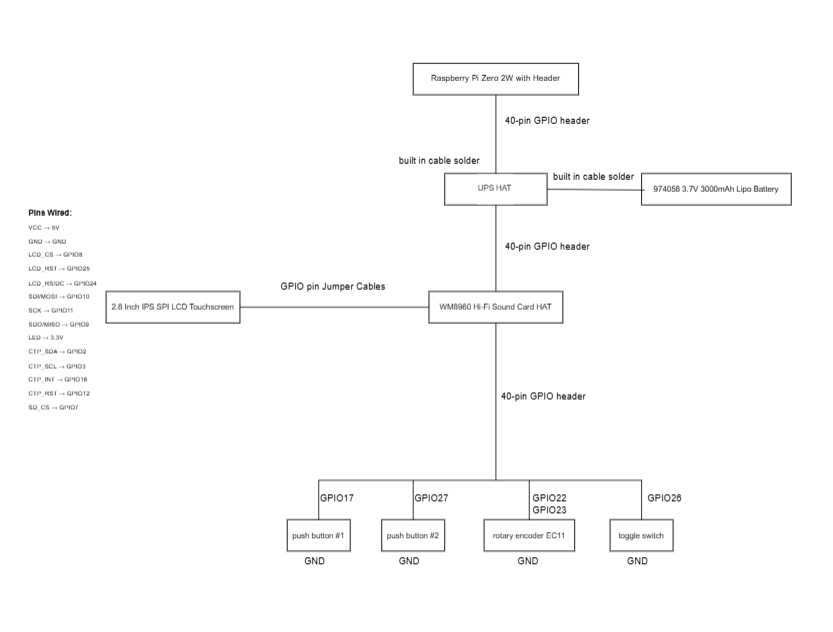
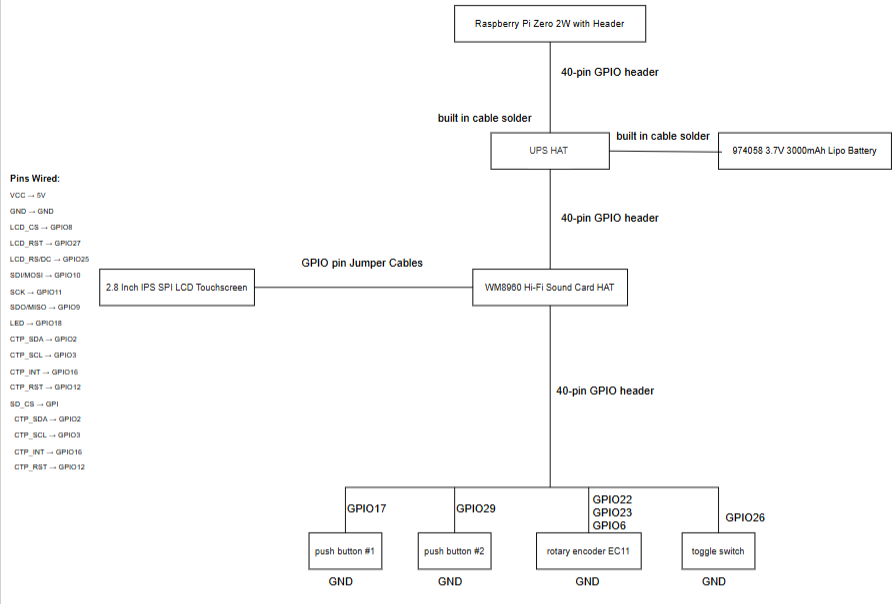
replaced pic

Changed region(s): [[0.0, 0.0, 0.9988, 0.9834]]

diff --git a/Source files/Hybrid Wiring Schematic.drawio.html b/Source files/Hybrid Wiring Schematic.drawio.html
@@ -1,0 +1,12 @@
+<!--[if IE]><meta http-equiv="X-UA-Compatible" content="IE=5,IE=9" ><![endif]-->
+<!DOCTYPE html>
+<html>
+<head>
+<title>Hybrid Wiring Schematic.drawio.html</title>
+<meta charset="utf-8"/>
+</head>
+<body>
+<div class="mxgraph" style="max-width:100%;border:1px solid transparent;" data-mxgraph="{&quot;highlight&quot;:&quot;#0000ff&quot;,&quot;nav&quot;:true,&quot;resize&quot;:true,&quot;xml&quot;:&quot;&lt;mxfile host=\&quot;app.diagrams.net\&quot;&gt;&lt;diagram name=\&quot;Page-1\&quot; id=\&quot;cuox75xA8GwFOKZldtt4\&quot;&gt;&lt;mxGraphModel dx=\&quot;1431\&quot; dy=\&quot;1856\&quot; grid=\&quot;1\&quot; gridSize=\&quot;10\&quot; guides=\&quot;1\&quot; tooltips=\&quot;1\&quot; connect=\&quot;1\&quot; arrows=\&quot;1\&quot; fold=\&quot;1\&quot; page=\&quot;1\&quot; pageScale=\&quot;1\&quot; pageWidth=\&quot;700\&quot; pageHeight=\&quot;1000\&quot; math=\&quot;0\&quot; shadow=\&quot;0\&quot;&gt;&lt;root&gt;&lt;mxCell id=\&quot;0\&quot;/&gt;&lt;mxCell id=\&quot;1\&quot; parent=\&quot;0\&quot;/&gt;&lt;mxCell id=\&quot;HXjn62AXbr9AhXD-XgPh-1\&quot; parent=\&quot;1\&quot; style=\&quot;rounded=0;whiteSpace=wrap;html=1;fontSize=5;\&quot; value=\&quot;&amp;lt;h1 class=&amp;quot;products_name&amp;quot; style=&amp;quot;box-sizing: border-box; margin: 0px; font-weight: 400; line-height: 30px; color: rgb(0, 0, 0); padding: 0px; font-variant: normal; letter-spacing: 0.28px; text-align: start; background-color: rgb(255, 255, 255);&amp;quot;&amp;gt;&amp;lt;font face=&amp;quot;Helvetica&amp;quot;&amp;gt;Raspberry Pi Zero 2W with Header&amp;lt;/font&amp;gt;&amp;lt;/h1&amp;gt;\&quot; vertex=\&quot;1\&quot;&gt;&lt;mxGeometry height=\&quot;40\&quot; width=\&quot;210\&quot; x=\&quot;610\&quot; y=\&quot;100\&quot; as=\&quot;geometry\&quot;/&gt;&lt;/mxCell&gt;&lt;mxCell id=\&quot;HXjn62AXbr9AhXD-XgPh-2\&quot; parent=\&quot;1\&quot; style=\&quot;rounded=0;whiteSpace=wrap;html=1;fontSize=5;\&quot; value=\&quot;&amp;lt;h1 class=&amp;quot;product-name&amp;quot; style=&amp;quot;background-repeat: no-repeat; box-sizing: border-box; padding: 0px; margin: 0px; font-weight: 500; line-height: 38px; color: rgb(51, 51, 51); text-align: start; background-color: rgb(255, 255, 255);&amp;quot;&amp;gt;&amp;lt;font face=&amp;quot;Helvetica&amp;quot;&amp;gt;UPS HAT&amp;amp;nbsp;&amp;lt;/font&amp;gt;&amp;lt;/h1&amp;gt;\&quot; vertex=\&quot;1\&quot;&gt;&lt;mxGeometry height=\&quot;40\&quot; width=\&quot;130\&quot; x=\&quot;650\&quot; y=\&quot;240\&quot; as=\&quot;geometry\&quot;/&gt;&lt;/mxCell&gt;&lt;mxCell id=\&quot;HXjn62AXbr9AhXD-XgPh-4\&quot; parent=\&quot;1\&quot; style=\&quot;rounded=0;whiteSpace=wrap;html=1;fontSize=5;fontFamily=Helvetica;\&quot; value=\&quot;&amp;lt;h1 style=&amp;quot;box-sizing: border-box; margin: 0px; padding: 0px; font-weight: normal; line-height: 1.2em; color: rgb(24, 24, 26); text-align: start; background-color: rgb(255, 255, 255);&amp;quot;&amp;gt;&amp;lt;font&amp;gt;WM8960 Hi-Fi Sound Card HAT&amp;lt;/font&amp;gt;&amp;lt;/h1&amp;gt;\&quot; vertex=\&quot;1\&quot;&gt;&lt;mxGeometry height=\&quot;40\&quot; width=\&quot;170\&quot; x=\&quot;630\&quot; y=\&quot;390\&quot; as=\&quot;geometry\&quot;/&gt;&lt;/mxCell&gt;&lt;mxCell id=\&quot;HXjn62AXbr9AhXD-XgPh-5\&quot; parent=\&quot;1\&quot; style=\&quot;rounded=0;whiteSpace=wrap;html=1;fontSize=10;\&quot; value=\&quot;&amp;lt;font&amp;gt;&amp;lt;span style=&amp;quot;color: rgb(0, 0, 0); font-style: normal; font-variant-ligatures: normal; font-variant-caps: normal; letter-spacing: normal; orphans: 2; text-align: start; text-indent: 0px; text-transform: none; widows: 2; word-spacing: 0px; -webkit-text-stroke-width: 0px; white-space: normal; text-decoration-thickness: initial; text-decoration-style: initial; text-decoration-color: initial; float: none; display: inline !important;&amp;quot;&amp;gt;&amp;lt;font face=&amp;quot;Helvetica&amp;quot;&amp;gt;974058 3.7V 3000mAh Lipo Battery&amp;lt;/font&amp;gt;&amp;lt;/span&amp;gt;&amp;lt;br&amp;gt;&amp;lt;/font&amp;gt;\&quot; vertex=\&quot;1\&quot;&gt;&lt;mxGeometry height=\&quot;40\&quot; width=\&quot;190\&quot; x=\&quot;900\&quot; y=\&quot;240\&quot; as=\&quot;geometry\&quot;/&gt;&lt;/mxCell&gt;&lt;mxCell id=\&quot;HXjn62AXbr9AhXD-XgPh-6\&quot; parent=\&quot;1\&quot; style=\&quot;rounded=0;whiteSpace=wrap;html=1;fontSize=5;fontFamily=Helvetica;\&quot; value=\&quot;&amp;lt;h1 style=&amp;quot;box-sizing: border-box; margin: 0px; padding: 0px; font-weight: normal; line-height: 1.2em; color: rgb(24, 24, 26); text-align: start; background-color: rgb(255, 255, 255);&amp;quot;&amp;gt;&amp;lt;font&amp;gt;push button #1&amp;lt;/font&amp;gt;&amp;lt;/h1&amp;gt;\&quot; vertex=\&quot;1\&quot;&gt;&lt;mxGeometry height=\&quot;40\&quot; width=\&quot;80\&quot; x=\&quot;450\&quot; y=\&quot;680\&quot; as=\&quot;geometry\&quot;/&gt;&lt;/mxCell&gt;&lt;mxCell id=\&quot;HXjn62AXbr9AhXD-XgPh-8\&quot; parent=\&quot;1\&quot; style=\&quot;rounded=0;whiteSpace=wrap;html=1;fontSize=5;fontFamily=Helvetica;\&quot; value=\&quot;&amp;lt;h1 style=&amp;quot;box-sizing: border-box; margin: 0px; padding: 0px; font-weight: normal; line-height: 1.2em; color: rgb(24, 24, 26); text-align: start; background-color: rgb(255, 255, 255);&amp;quot;&amp;gt;&amp;lt;font&amp;gt;rotary encoder EC11&amp;lt;/font&amp;gt;&amp;lt;/h1&amp;gt;\&quot; vertex=\&quot;1\&quot;&gt;&lt;mxGeometry height=\&quot;40\&quot; width=\&quot;115\&quot; x=\&quot;700\&quot; y=\&quot;680\&quot; as=\&quot;geometry\&quot;/&gt;&lt;/mxCell&gt;&lt;mxCell id=\&quot;HXjn62AXbr9AhXD-XgPh-9\&quot; parent=\&quot;1\&quot; style=\&quot;rounded=0;whiteSpace=wrap;html=1;fontSize=5;fontFamily=Helvetica;\&quot; value=\&quot;&amp;lt;h1 style=&amp;quot;box-sizing: border-box; margin: 0px; padding: 0px; font-weight: normal; line-height: 1.2em; color: rgb(24, 24, 26); text-align: start; background-color: rgb(255, 255, 255);&amp;quot;&amp;gt;toggle switch&amp;lt;/h1&amp;gt;\&quot; vertex=\&quot;1\&quot;&gt;&lt;mxGeometry height=\&quot;40\&quot; width=\&quot;80\&quot; x=\&quot;860\&quot; y=\&quot;680\&quot; as=\&quot;geometry\&quot;/&gt;&lt;/mxCell&gt;&lt;mxCell id=\&quot;HXjn62AXbr9AhXD-XgPh-10\&quot; parent=\&quot;1\&quot; style=\&quot;rounded=0;whiteSpace=wrap;html=1;fontSize=5;fontFamily=Helvetica;\&quot; value=\&quot;&amp;lt;h1 style=&amp;quot;box-sizing: border-box; margin: 0px; padding: 0px; font-weight: normal; line-height: 1.2em; color: rgb(24, 24, 26); text-align: start; background-color: rgb(255, 255, 255);&amp;quot;&amp;gt;&amp;lt;font&amp;gt;2.8 Inch IPS SPI LCD Touchscreen&amp;lt;/font&amp;gt;&amp;lt;/h1&amp;gt;\&quot; vertex=\&quot;1\&quot;&gt;&lt;mxGeometry height=\&quot;40\&quot; width=\&quot;170\&quot; x=\&quot;220\&quot; y=\&quot;390\&quot; as=\&quot;geometry\&quot;/&gt;&lt;/mxCell&gt;&lt;mxCell id=\&quot;HXjn62AXbr9AhXD-XgPh-11\&quot; edge=\&quot;1\&quot; parent=\&quot;1\&quot; source=\&quot;HXjn62AXbr9AhXD-XgPh-2\&quot; style=\&quot;endArrow=none;html=1;rounded=0;entryX=0.5;entryY=1;entryDx=0;entryDy=0;exitX=0.5;exitY=0;exitDx=0;exitDy=0;\&quot; target=\&quot;HXjn62AXbr9AhXD-XgPh-1\&quot; value=\&quot;\&quot;&gt;&lt;mxGeometry height=\&quot;50\&quot; relative=\&quot;1\&quot; width=\&quot;50\&quot; as=\&quot;geometry\&quot;&gt;&lt;mxPoint x=\&quot;710\&quot; y=\&quot;370\&quot; as=\&quot;sourcePoint\&quot;/&gt;&lt;mxPoint x=\&quot;760\&quot; y=\&quot;320\&quot; as=\&quot;targetPoint\&quot;/&gt;&lt;/mxGeometry&gt;&lt;/mxCell&gt;&lt;mxCell id=\&quot;HXjn62AXbr9AhXD-XgPh-12\&quot; parent=\&quot;1\&quot; style=\&quot;text;whiteSpace=wrap;html=1;\&quot; value=\&quot;40-pin GPIO header\&quot; vertex=\&quot;1\&quot;&gt;&lt;mxGeometry height=\&quot;40\&quot; width=\&quot;140\&quot; x=\&quot;725\&quot; y=\&quot;160\&quot; as=\&quot;geometry\&quot;/&gt;&lt;/mxCell&gt;&lt;mxCell id=\&quot;HXjn62AXbr9AhXD-XgPh-13\&quot; edge=\&quot;1\&quot; parent=\&quot;1\&quot; source=\&quot;HXjn62AXbr9AhXD-XgPh-4\&quot; style=\&quot;endArrow=none;html=1;rounded=0;entryX=0.5;entryY=1;entryDx=0;entryDy=0;\&quot; target=\&quot;HXjn62AXbr9AhXD-XgPh-2\&quot; value=\&quot;\&quot;&gt;&lt;mxGeometry height=\&quot;50\&quot; relative=\&quot;1\&quot; width=\&quot;50\&quot; as=\&quot;geometry\&quot;&gt;&lt;mxPoint x=\&quot;730\&quot; y=\&quot;320\&quot; as=\&quot;sourcePoint\&quot;/&gt;&lt;mxPoint x=\&quot;730\&quot; y=\&quot;340\&quot; as=\&quot;targetPoint\&quot;/&gt;&lt;/mxGeometry&gt;&lt;/mxCell&gt;&lt;mxCell id=\&quot;HXjn62AXbr9AhXD-XgPh-14\&quot; parent=\&quot;1\&quot; style=\&quot;text;whiteSpace=wrap;html=1;\&quot; value=\&quot;40-pin GPIO header\&quot; vertex=\&quot;1\&quot;&gt;&lt;mxGeometry height=\&quot;40\&quot; width=\&quot;140\&quot; x=\&quot;725\&quot; y=\&quot;320\&quot; as=\&quot;geometry\&quot;/&gt;&lt;/mxCell&gt;&lt;mxCell id=\&quot;HXjn62AXbr9AhXD-XgPh-15\&quot; edge=\&quot;1\&quot; parent=\&quot;1\&quot; source=\&quot;HXjn62AXbr9AhXD-XgPh-10\&quot; style=\&quot;endArrow=none;html=1;rounded=0;entryX=0;entryY=0.5;entryDx=0;entryDy=0;\&quot; target=\&quot;HXjn62AXbr9AhXD-XgPh-4\&quot; value=\&quot;\&quot;&gt;&lt;mxGeometry height=\&quot;50\&quot; relative=\&quot;1\&quot; width=\&quot;50\&quot; as=\&quot;geometry\&quot;&gt;&lt;mxPoint x=\&quot;492.71000000000004\&quot; y=\&quot;460\&quot; as=\&quot;sourcePoint\&quot;/&gt;&lt;mxPoint x=\&quot;492.71000000000004\&quot; y=\&quot;410\&quot; as=\&quot;targetPoint\&quot;/&gt;&lt;/mxGeometry&gt;&lt;/mxCell&gt;&lt;mxCell id=\&quot;HXjn62AXbr9AhXD-XgPh-16\&quot; parent=\&quot;1\&quot; style=\&quot;text;whiteSpace=wrap;html=1;\&quot; value=\&quot;GPIO pin Jumper Cables\&quot; vertex=\&quot;1\&quot;&gt;&lt;mxGeometry height=\&quot;40\&quot; width=\&quot;140\&quot; x=\&quot;440\&quot; y=\&quot;370\&quot; as=\&quot;geometry\&quot;/&gt;&lt;/mxCell&gt;&lt;mxCell id=\&quot;HXjn62AXbr9AhXD-XgPh-17\&quot; edge=\&quot;1\&quot; parent=\&quot;1\&quot; style=\&quot;endArrow=none;html=1;rounded=0;entryX=0.5;entryY=1;entryDx=0;entryDy=0;\&quot; target=\&quot;HXjn62AXbr9AhXD-XgPh-4\&quot; value=\&quot;\&quot;&gt;&lt;mxGeometry height=\&quot;50\&quot; relative=\&quot;1\&quot; width=\&quot;50\&quot; as=\&quot;geometry\&quot;&gt;&lt;mxPoint x=\&quot;715\&quot; y=\&quot;630\&quot; as=\&quot;sourcePoint\&quot;/&gt;&lt;mxPoint x=\&quot;710\&quot; y=\&quot;350\&quot; as=\&quot;targetPoint\&quot;/&gt;&lt;/mxGeometry&gt;&lt;/mxCell&gt;&lt;mxCell id=\&quot;HXjn62AXbr9AhXD-XgPh-18\&quot; parent=\&quot;1\&quot; style=\&quot;text;whiteSpace=wrap;html=1;\&quot; value=\&quot;40-pin GPIO header\&quot; vertex=\&quot;1\&quot;&gt;&lt;mxGeometry height=\&quot;40\&quot; width=\&quot;140\&quot; x=\&quot;720\&quot; y=\&quot;510\&quot; as=\&quot;geometry\&quot;/&gt;&lt;/mxCell&gt;&lt;mxCell id=\&quot;HXjn62AXbr9AhXD-XgPh-19\&quot; edge=\&quot;1\&quot; parent=\&quot;1\&quot; style=\&quot;endArrow=none;html=1;rounded=0;\&quot; value=\&quot;\&quot;&gt;&lt;mxGeometry height=\&quot;50\&quot; relative=\&quot;1\&quot; width=\&quot;50\&quot; as=\&quot;geometry\&quot;&gt;&lt;mxPoint x=\&quot;490\&quot; y=\&quot;630\&quot; as=\&quot;sourcePoint\&quot;/&gt;&lt;mxPoint x=\&quot;900\&quot; y=\&quot;630\&quot; as=\&quot;targetPoint\&quot;/&gt;&lt;/mxGeometry&gt;&lt;/mxCell&gt;&lt;mxCell id=\&quot;HXjn62AXbr9AhXD-XgPh-22\&quot; edge=\&quot;1\&quot; parent=\&quot;1\&quot; source=\&quot;HXjn62AXbr9AhXD-XgPh-6\&quot; style=\&quot;endArrow=none;html=1;rounded=0;\&quot; value=\&quot;\&quot;&gt;&lt;mxGeometry height=\&quot;50\&quot; relative=\&quot;1\&quot; width=\&quot;50\&quot; as=\&quot;geometry\&quot;&gt;&lt;mxPoint x=\&quot;700\&quot; y=\&quot;540\&quot; as=\&quot;sourcePoint\&quot;/&gt;&lt;mxPoint x=\&quot;490\&quot; y=\&quot;630\&quot; as=\&quot;targetPoint\&quot;/&gt;&lt;/mxGeometry&gt;&lt;/mxCell&gt;&lt;mxCell id=\&quot;HXjn62AXbr9AhXD-XgPh-23\&quot; parent=\&quot;1\&quot; style=\&quot;rounded=0;whiteSpace=wrap;html=1;fontSize=5;fontFamily=Helvetica;\&quot; value=\&quot;&amp;lt;h1 style=&amp;quot;box-sizing: border-box; margin: 0px; padding: 0px; font-weight: normal; line-height: 1.2em; color: rgb(24, 24, 26); text-align: start; background-color: rgb(255, 255, 255);&amp;quot;&amp;gt;&amp;lt;font&amp;gt;push button #2&amp;lt;/font&amp;gt;&amp;lt;/h1&amp;gt;\&quot; vertex=\&quot;1\&quot;&gt;&lt;mxGeometry height=\&quot;40\&quot; width=\&quot;80\&quot; x=\&quot;570\&quot; y=\&quot;680\&quot; as=\&quot;geometry\&quot;/&gt;&lt;/mxCell&gt;&lt;mxCell id=\&quot;HXjn62AXbr9AhXD-XgPh-24\&quot; edge=\&quot;1\&quot; parent=\&quot;1\&quot; source=\&quot;HXjn62AXbr9AhXD-XgPh-23\&quot; style=\&quot;endArrow=none;html=1;rounded=0;\&quot; value=\&quot;\&quot;&gt;&lt;mxGeometry height=\&quot;50\&quot; relative=\&quot;1\&quot; width=\&quot;50\&quot; as=\&quot;geometry\&quot;&gt;&lt;mxPoint x=\&quot;820\&quot; y=\&quot;540\&quot; as=\&quot;sourcePoint\&quot;/&gt;&lt;mxPoint x=\&quot;610\&quot; y=\&quot;630\&quot; as=\&quot;targetPoint\&quot;/&gt;&lt;/mxGeometry&gt;&lt;/mxCell&gt;&lt;mxCell id=\&quot;HXjn62AXbr9AhXD-XgPh-25\&quot; edge=\&quot;1\&quot; parent=\&quot;1\&quot; style=\&quot;endArrow=none;html=1;rounded=0;\&quot; value=\&quot;\&quot;&gt;&lt;mxGeometry height=\&quot;50\&quot; relative=\&quot;1\&quot; width=\&quot;50\&quot; as=\&quot;geometry\&quot;&gt;&lt;mxPoint x=\&quot;757.35\&quot; y=\&quot;680\&quot; as=\&quot;sourcePoint\&quot;/&gt;&lt;mxPoint x=\&quot;757.35\&quot; y=\&quot;630\&quot; as=\&quot;targetPoint\&quot;/&gt;&lt;/mxGeometry&gt;&lt;/mxCell&gt;&lt;mxCell id=\&quot;HXjn62AXbr9AhXD-XgPh-26\&quot; edge=\&quot;1\&quot; parent=\&quot;1\&quot; source=\&quot;HXjn62AXbr9AhXD-XgPh-9\&quot; style=\&quot;endArrow=none;html=1;rounded=0;exitX=0.5;exitY=0;exitDx=0;exitDy=0;\&quot; value=\&quot;\&quot;&gt;&lt;mxGeometry height=\&quot;50\&quot; relative=\&quot;1\&quot; width=\&quot;50\&quot; as=\&quot;geometry\&quot;&gt;&lt;mxPoint x=\&quot;930\&quot; y=\&quot;680\&quot; as=\&quot;sourcePoint\&quot;/&gt;&lt;mxPoint x=\&quot;900\&quot; y=\&quot;630\&quot; as=\&quot;targetPoint\&quot;/&gt;&lt;/mxGeometry&gt;&lt;/mxCell&gt;&lt;mxCell id=\&quot;HXjn62AXbr9AhXD-XgPh-28\&quot; edge=\&quot;1\&quot; parent=\&quot;1\&quot; source=\&quot;HXjn62AXbr9AhXD-XgPh-2\&quot; style=\&quot;endArrow=none;html=1;rounded=0;exitX=1;exitY=0.5;exitDx=0;exitDy=0;entryX=0.02;entryY=0.528;entryDx=0;entryDy=0;entryPerimeter=0;\&quot; target=\&quot;HXjn62AXbr9AhXD-XgPh-5\&quot; value=\&quot;\&quot;&gt;&lt;mxGeometry height=\&quot;50\&quot; relative=\&quot;1\&quot; width=\&quot;50\&quot; as=\&quot;geometry\&quot;&gt;&lt;mxPoint x=\&quot;940\&quot; y=\&quot;440\&quot; as=\&quot;sourcePoint\&quot;/&gt;&lt;mxPoint x=\&quot;890\&quot; y=\&quot;300\&quot; as=\&quot;targetPoint\&quot;/&gt;&lt;/mxGeometry&gt;&lt;/mxCell&gt;&lt;mxCell id=\&quot;HXjn62AXbr9AhXD-XgPh-29\&quot; parent=\&quot;1\&quot; style=\&quot;text;whiteSpace=wrap;html=1;\&quot; value=\&quot;built in cable solder\&quot; vertex=\&quot;1\&quot;&gt;&lt;mxGeometry height=\&quot;40\&quot; width=\&quot;120\&quot; x=\&quot;785.5\&quot; y=\&quot;230\&quot; as=\&quot;geometry\&quot;/&gt;&lt;/mxCell&gt;&lt;mxCell id=\&quot;HXjn62AXbr9AhXD-XgPh-30\&quot; parent=\&quot;1\&quot; style=\&quot;text;whiteSpace=wrap;html=1;\&quot; value=\&quot;GPIO17 \&quot; vertex=\&quot;1\&quot;&gt;&lt;mxGeometry height=\&quot;40\&quot; width=\&quot;140\&quot; x=\&quot;490\&quot; y=\&quot;640\&quot; as=\&quot;geometry\&quot;/&gt;&lt;/mxCell&gt;&lt;mxCell id=\&quot;HXjn62AXbr9AhXD-XgPh-32\&quot; parent=\&quot;1\&quot; style=\&quot;text;whiteSpace=wrap;html=1;\&quot; value=\&quot;GPIO29\&quot; vertex=\&quot;1\&quot;&gt;&lt;mxGeometry height=\&quot;40\&quot; width=\&quot;140\&quot; x=\&quot;610\&quot; y=\&quot;640\&quot; as=\&quot;geometry\&quot;/&gt;&lt;/mxCell&gt;&lt;mxCell id=\&quot;HXjn62AXbr9AhXD-XgPh-33\&quot; parent=\&quot;1\&quot; style=\&quot;text;whiteSpace=wrap;html=1;\&quot; value=\&quot;GND\&quot; vertex=\&quot;1\&quot;&gt;&lt;mxGeometry height=\&quot;40\&quot; width=\&quot;140\&quot; x=\&quot;470\&quot; y=\&quot;720\&quot; as=\&quot;geometry\&quot;/&gt;&lt;/mxCell&gt;&lt;mxCell id=\&quot;HXjn62AXbr9AhXD-XgPh-34\&quot; parent=\&quot;1\&quot; style=\&quot;text;whiteSpace=wrap;html=1;\&quot; value=\&quot;GND\&quot; vertex=\&quot;1\&quot;&gt;&lt;mxGeometry height=\&quot;40\&quot; width=\&quot;140\&quot; x=\&quot;590\&quot; y=\&quot;720\&quot; as=\&quot;geometry\&quot;/&gt;&lt;/mxCell&gt;&lt;mxCell id=\&quot;HXjn62AXbr9AhXD-XgPh-35\&quot; parent=\&quot;1\&quot; style=\&quot;text;whiteSpace=wrap;html=1;\&quot; value=\&quot;GND\&quot; vertex=\&quot;1\&quot;&gt;&lt;mxGeometry height=\&quot;40\&quot; width=\&quot;140\&quot; x=\&quot;740.5\&quot; y=\&quot;720\&quot; as=\&quot;geometry\&quot;/&gt;&lt;/mxCell&gt;&lt;mxCell id=\&quot;HXjn62AXbr9AhXD-XgPh-36\&quot; parent=\&quot;1\&quot; style=\&quot;text;whiteSpace=wrap;html=1;\&quot; value=\&quot;GND\&quot; vertex=\&quot;1\&quot;&gt;&lt;mxGeometry height=\&quot;40\&quot; width=\&quot;150\&quot; x=\&quot;880\&quot; y=\&quot;720\&quot; as=\&quot;geometry\&quot;/&gt;&lt;/mxCell&gt;&lt;mxCell id=\&quot;HXjn62AXbr9AhXD-XgPh-37\&quot; parent=\&quot;1\&quot; style=\&quot;text;whiteSpace=wrap;html=1;\&quot; value=\&quot;&amp;lt;div&amp;gt;GPIO22&amp;lt;/div&amp;gt;&amp;lt;div&amp;gt;GPIO23&amp;lt;/div&amp;gt;&amp;lt;div&amp;gt;GPIO6&amp;lt;/div&amp;gt;\&quot; vertex=\&quot;1\&quot;&gt;&lt;mxGeometry height=\&quot;40\&quot; width=\&quot;140\&quot; x=\&quot;760\&quot; y=\&quot;630\&quot; as=\&quot;geometry\&quot;/&gt;&lt;/mxCell&gt;&lt;mxCell id=\&quot;HXjn62AXbr9AhXD-XgPh-38\&quot; parent=\&quot;1\&quot; style=\&quot;text;whiteSpace=wrap;html=1;\&quot; value=\&quot;GPIO26  \&quot; vertex=\&quot;1\&quot;&gt;&lt;mxGeometry height=\&quot;40\&quot; width=\&quot;140\&quot; x=\&quot;905.5\&quot; y=\&quot;650\&quot; as=\&quot;geometry\&quot;/&gt;&lt;/mxCell&gt;&lt;mxCell id=\&quot;HXjn62AXbr9AhXD-XgPh-40\&quot; parent=\&quot;1\&quot; style=\&quot;text;whiteSpace=wrap;html=1;\&quot; value=\&quot;built in cable solder\&quot; vertex=\&quot;1\&quot;&gt;&lt;mxGeometry height=\&quot;40\&quot; width=\&quot;120\&quot; x=\&quot;590\&quot; y=\&quot;210\&quot; as=\&quot;geometry\&quot;/&gt;&lt;/mxCell&gt;&lt;mxCell id=\&quot;HXjn62AXbr9AhXD-XgPh-42\&quot; parent=\&quot;1\&quot; style=\&quot;text;whiteSpace=wrap;html=1;fontSize=8;\&quot; value=\&quot;&amp;lt;p data-pm-slice=&amp;quot;1 1 []&amp;quot;&amp;gt;VCC → 5V&amp;lt;/p&amp;gt;&amp;lt;p data-pm-slice=&amp;quot;1 1 []&amp;quot;&amp;gt;GND → GND&amp;lt;/p&amp;gt;&amp;lt;p data-pm-slice=&amp;quot;1 1 []&amp;quot;&amp;gt;LCD_CS → GPIO8&amp;lt;/p&amp;gt;&amp;lt;p data-pm-slice=&amp;quot;1 1 []&amp;quot;&amp;gt;LCD_RST → GPIO27&amp;lt;/p&amp;gt;&amp;lt;p data-pm-slice=&amp;quot;1 1 []&amp;quot;&amp;gt;LCD_RS/DC → GPIO25&amp;lt;/p&amp;gt;&amp;lt;p data-pm-slice=&amp;quot;1 1 []&amp;quot;&amp;gt;SDI/MOSI → GPIO10&amp;lt;/p&amp;gt;&amp;lt;p data-pm-slice=&amp;quot;1 1 []&amp;quot;&amp;gt;SCK → GPIO11&amp;lt;/p&amp;gt;&amp;lt;p data-pm-slice=&amp;quot;1 1 []&amp;quot;&amp;gt;SDO/MISO → GPIO9&amp;lt;/p&amp;gt;&amp;lt;p data-pm-slice=&amp;quot;1 1 []&amp;quot;&amp;gt;LED → GPIO18&amp;lt;/p&amp;gt;&amp;lt;p data-pm-slice=&amp;quot;1 1 []&amp;quot;&amp;gt;CTP_SDA → GPIO2&amp;lt;/p&amp;gt;&amp;lt;p data-pm-slice=&amp;quot;1 1 []&amp;quot;&amp;gt;CTP_SCL → GPIO3&amp;lt;/p&amp;gt;&amp;lt;p data-pm-slice=&amp;quot;1 1 []&amp;quot;&amp;gt;CTP_INT → GPIO16&amp;lt;/p&amp;gt;&amp;lt;p data-pm-slice=&amp;quot;1 1 []&amp;quot;&amp;gt;CTP_RST → GPIO12&amp;lt;/p&amp;gt;&amp;lt;p data-pm-slice=&amp;quot;1 1 []&amp;quot;&amp;gt;SD_CS → GPI&amp;lt;/p&amp;gt;&amp;lt;p data-pm-slice=&amp;quot;1 1 []&amp;quot;&amp;gt;&amp;amp;nbsp; CTP_SDA → GPIO2&amp;lt;/p&amp;gt;&amp;lt;p data-pm-slice=&amp;quot;1 1 []&amp;quot;&amp;gt;&amp;amp;nbsp; CTP_SCL → GPIO3&amp;lt;/p&amp;gt;&amp;lt;p data-pm-slice=&amp;quot;1 1 []&amp;quot;&amp;gt;&amp;amp;nbsp; CTP_INT → GPIO16&amp;lt;/p&amp;gt;&amp;lt;p data-pm-slice=&amp;quot;1 1 []&amp;quot;&amp;gt;&amp;amp;nbsp; CTP_RST → GPIO12&amp;lt;/p&amp;gt;\&quot; vertex=\&quot;1\&quot;&gt;&lt;mxGeometry height=\&quot;270\&quot; width=\&quot;140\&quot; x=\&quot;120\&quot; y=\&quot;290\&quot; as=\&quot;geometry\&quot;/&gt;&lt;/mxCell&gt;&lt;mxCell id=\&quot;HXjn62AXbr9AhXD-XgPh-43\&quot; parent=\&quot;1\&quot; style=\&quot;text;whiteSpace=wrap;html=1;fontSize=8;\&quot; value=\&quot;&amp;lt;p data-pm-slice=&amp;quot;1 1 []&amp;quot;&amp;gt;&amp;lt;font style=&amp;quot;font-size: 10px;&amp;quot;&amp;gt;&amp;lt;b&amp;gt;Pins Wired:&amp;lt;/b&amp;gt;&amp;lt;/font&amp;gt;&amp;lt;/p&amp;gt;\&quot; vertex=\&quot;1\&quot;&gt;&lt;mxGeometry height=\&quot;30\&quot; width=\&quot;140\&quot; x=\&quot;120\&quot; y=\&quot;270\&quot; as=\&quot;geometry\&quot;/&gt;&lt;/mxCell&gt;&lt;/root&gt;&lt;/mxGraphModel&gt;&lt;/diagram&gt;&lt;/mxfile&gt;&quot;,&quot;toolbar&quot;:&quot;pages zoom layers lightbox&quot;,&quot;page&quot;:0}"></div>
+<script type="text/javascript" src="https://app.diagrams.net/js/viewer-static.min.js"></script>
+</body>
+</html>